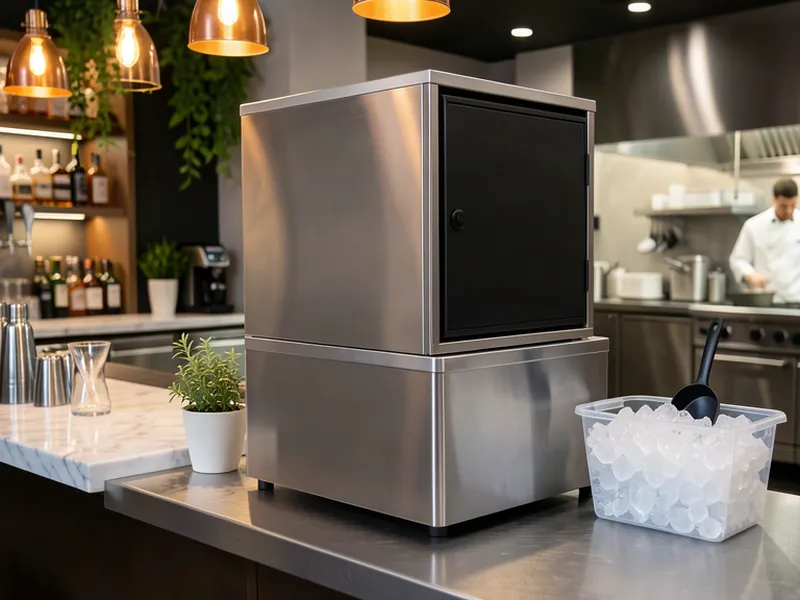
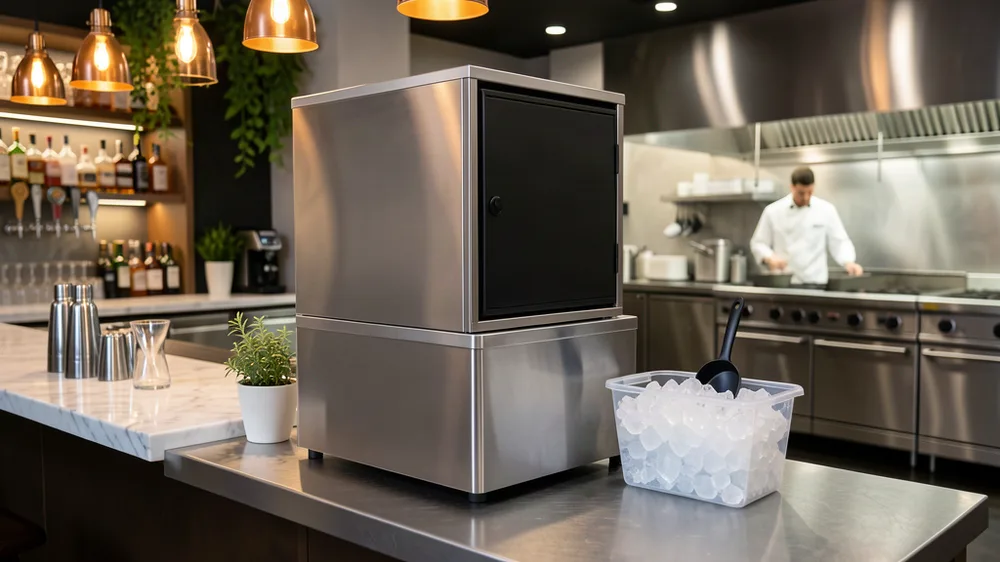
Use uncropped full-frame images and disable CSS cover-crop on Sub-Zero and ice machine pages

diff --git a/colddirect-public-html/subzero-fridge-repair-london.html b/colddirect-public-html/subzero-fridge-repair-london.html
@@ -89,7 +89,7 @@
     </div>
   </div></section>
   <section class="section"><div class="wrap">
-    <img loading="lazy" class="pro-image brand-photo" src="/images/subzero-fridge-repair-london.webp" alt="Sub-Zero built-in glass-door fridge column in a luxury kitchen" style="width:100%;max-width:720px;height:auto;margin:0 0 20px">
+    <img loading="lazy" class="pro-image brand-photo" src="/images/subzero-fridge-repair-london.webp" alt="Sub-Zero built-in glass-door fridge column in a luxury kitchen" style="width:100%;max-width:720px;height:auto;max-height:none;object-fit:contain;margin:0 0 20px">
     <h2>Sub-Zero fridge engineers covering North London</h2>
     <p>Sub-Zero refrigeration is built as a luxury, high-capacity fridge. In London we see Sub-Zero columns and under-counters in private members clubs, hotel suites used as production kitchens, show kitchens and high-end restaurants that specified the brand. Cold Direct offers Sub-Zero fridge repair as a commercial-only service. We cover North London and a 25 mile radius. We do not run a domestic house-call diary for private kitchens unless the site is a commercial account.</p>
     <p>Common Sub-Zero fridge faults: one compartment warmer than the other, ice on the evaporator, a noisy condenser, a control that has lost its programme after a power cut, a door that will not seal, or an alarm that will not clear. Dual evaporators and sealed systems on Sub-Zero cabinets need a careful diagnosis. We use a temperature probe on air and product, not a guess from the panel. Those figures matter if an EHO or a hotel engineer asks what the fridge was doing when you called us.</p>

diff --git a/subzero-fridge-repair-london.html b/subzero-fridge-repair-london.html
@@ -88,7 +88,7 @@
     </div>
   </div></section>
   <section class="section"><div class="wrap">
-    <img class="brand-photo" src="/images/subzero-fridge-repair-london.webp" alt="Sub-Zero built-in glass-door fridge column in a luxury kitchen" onerror="this.onerror=null;this.src='https://images.unsplash.com/photo-1556911220-bff31c812dba?auto=format&amp;fit=crop&amp;w=1200'">
+    <img class="brand-photo" src="/images/subzero-fridge-repair-london.webp" alt="Sub-Zero built-in glass-door fridge column in a luxury kitchen" style="max-height:none;object-fit:contain;" onerror="this.onerror=null;this.src='https://images.unsplash.com/photo-1556911220-bff31c812dba?auto=format&amp;fit=crop&amp;w=1200'">
     <h2>Sub-Zero fridge engineers covering North London</h2>
     <p>We provide both repair and service / maintenance for Sub-Zero commercial fridges. Sub-Zero refrigeration is built as a luxury, high-capacity fridge. In London we see Sub-Zero columns and under-counters in private members clubs, hotel suites used as production kitchens, show kitchens and high-end restaurants that specified the brand. Cold Direct offers Sub-Zero fridge repair as a commercial-only service. We cover North London and a 25 mile radius. We do not run a domestic house-call diary for private kitchens unless the site is a commercial account.</p>
     <h2>Sub-Zero fridge service London</h2>

diff --git a/subzero-fridge-repair-london/index.html b/subzero-fridge-repair-london/index.html
@@ -85,7 +85,7 @@
     </div>
   </div></section>
   <section class="section"><div class="wrap">
-    <img class="brand-photo" src="/images/subzero-fridge-repair-london.webp" alt="Sub-Zero built-in glass-door fridge column in a luxury kitchen" onerror="this.onerror=null;this.src='https://images.unsplash.com/photo-1556911220-bff31c812dba?auto=format&amp;fit=crop&amp;w=1200'">
+    <img class="brand-photo" src="/images/subzero-fridge-repair-london.webp" alt="Sub-Zero built-in glass-door fridge column in a luxury kitchen" style="max-height:none;object-fit:contain;" onerror="this.onerror=null;this.src='https://images.unsplash.com/photo-1556911220-bff31c812dba?auto=format&amp;fit=crop&amp;w=1200'">
     <h2>Sub-Zero fridge engineers covering North London</h2>
     <p>We provide both repair and service / maintenance for Sub-Zero commercial fridges. Sub-Zero refrigeration is built as a luxury, high-capacity fridge. In London we see Sub-Zero columns and under-counters in private members clubs, hotel suites used as production kitchens, show kitchens and high-end restaurants that specified the brand. Cold Direct offers Sub-Zero fridge repair as a commercial-only service. We cover North London and a 25 mile radius. We do not run a domestic house-call diary for private kitchens unless the site is a commercial account.</p>
     <h2>Sub-Zero fridge service London</h2>

diff --git a/colddirect-public-html/ice-machine-repair-london.html b/colddirect-public-html/ice-machine-repair-london.html
@@ -90,7 +90,7 @@
     </div>
   </div></section>
   <section class="section"><div class="wrap">
-    <img loading="lazy" class="pro-image brand-photo" src="/images/ice-machine-repair-london-hero.webp" alt="Commercial ice machine full of fresh ice cubes in a restaurant bar" width="800" height="600">
+    <img loading="lazy" class="pro-image brand-photo" src="/images/ice-machine-repair-london-hero.webp" alt="Commercial ice machine full of fresh ice cubes in a restaurant bar" width="1000" height="562" style="max-height:none;object-fit:contain;">
     <h2>Commercial ice machine engineers in North London</h2>
     <p>We provide both repair and service / maintenance for commercial ice machines. When a commercial ice machine stops, the bar stops pouring, the restaurant cannot plate seafood, and the hotel breakfast station looks empty. Cold Direct repairs commercial ice machines only. We cover North London and a 25 mile radius across London, Hertfordshire and Essex. This is not a domestic ice-maker in a fridge door. It is a trade cube, nugget or flake machine that must stay clean enough for an EHO inspection. Need <a href="/ice-machine-repair-london">ice machine repair london</a>? Call 07983 759320 now.</p>
     <h2>Types of ice we repair</h2>

diff --git a/ice-machine-repair-london.html b/ice-machine-repair-london.html
@@ -89,7 +89,7 @@
     </div>
   </div></section>
   <section class="section"><div class="wrap">
-    <img class="brand-photo" src="/images/ice-machine-repair-london-hero.webp" alt="Commercial ice machine full of fresh ice cubes in a restaurant bar" width="800" height="600">
+    <img class="brand-photo" src="/images/ice-machine-repair-london-hero.webp" alt="Commercial ice machine full of fresh ice cubes in a restaurant bar" width="1000" height="562" style="max-height:none;object-fit:contain;">
     <h2>Commercial ice machine engineers in North London</h2>
     <p>We provide both repair and service / maintenance for commercial ice machines. When a commercial ice machine stops, the bar stops pouring, the restaurant cannot plate seafood, and the hotel breakfast station looks empty. Cold Direct repairs commercial ice machines only. We cover North London and a 25 mile radius across London, Hertfordshire and Essex. This is not a domestic ice-maker in a fridge door. It is a trade cube, nugget or flake machine that must stay clean enough for an EHO inspection. Need <a href="/ice-machine-repair-london">ice machine repair london</a>? Call 07983 759320 now.</p>
     <h2>Types of ice we repair</h2>

diff --git a/ice-machine-repair-london/index.html b/ice-machine-repair-london/index.html
@@ -86,7 +86,7 @@
     </div>
   </div></section>
   <section class="section"><div class="wrap">
-    <img class="brand-photo" src="/images/ice-machine-repair-london-hero.webp" alt="Commercial ice machine full of fresh ice cubes in a restaurant bar" width="800" height="600">
+    <img class="brand-photo" src="/images/ice-machine-repair-london-hero.webp" alt="Commercial ice machine full of fresh ice cubes in a restaurant bar" width="1000" height="562" style="max-height:none;object-fit:contain;">
     <h2>Commercial ice machine engineers in North London</h2>
     <p>We provide both repair and service / maintenance for commercial ice machines. When a commercial ice machine stops, the bar stops pouring, the restaurant cannot plate seafood, and the hotel breakfast station looks empty. Cold Direct repairs commercial ice machines only. We cover North London and a 25 mile radius across London, Hertfordshire and Essex. This is not a domestic ice-maker in a fridge door. It is a trade cube, nugget or flake machine that must stay clean enough for an EHO inspection. Need <a href="/ice-machine-repair-london">ice machine repair london</a>? Call 07983 759320 now.</p>
     <h2>Types of ice we repair</h2>
